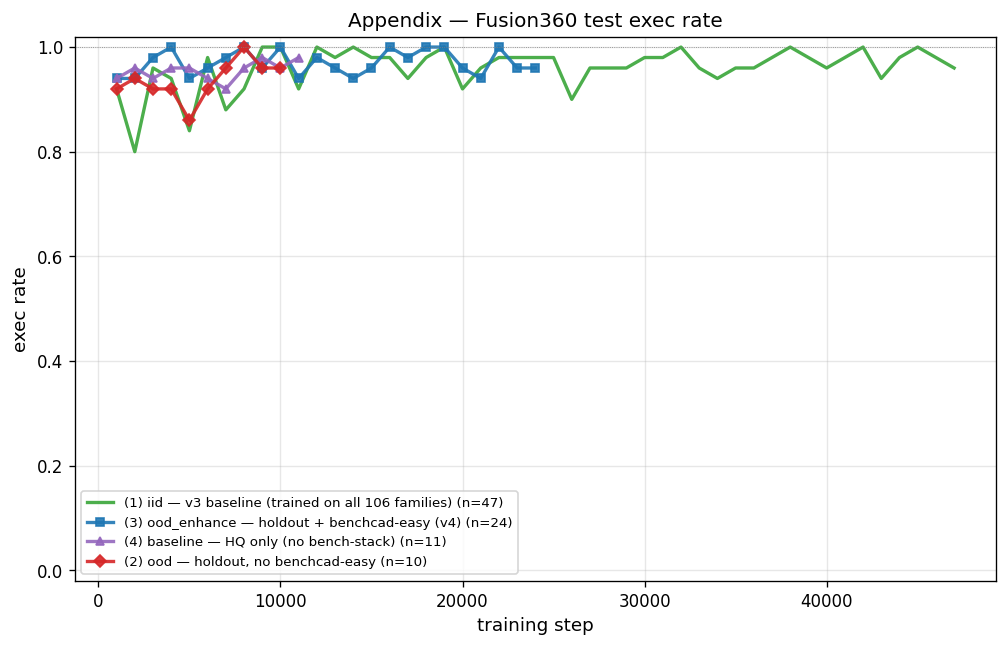
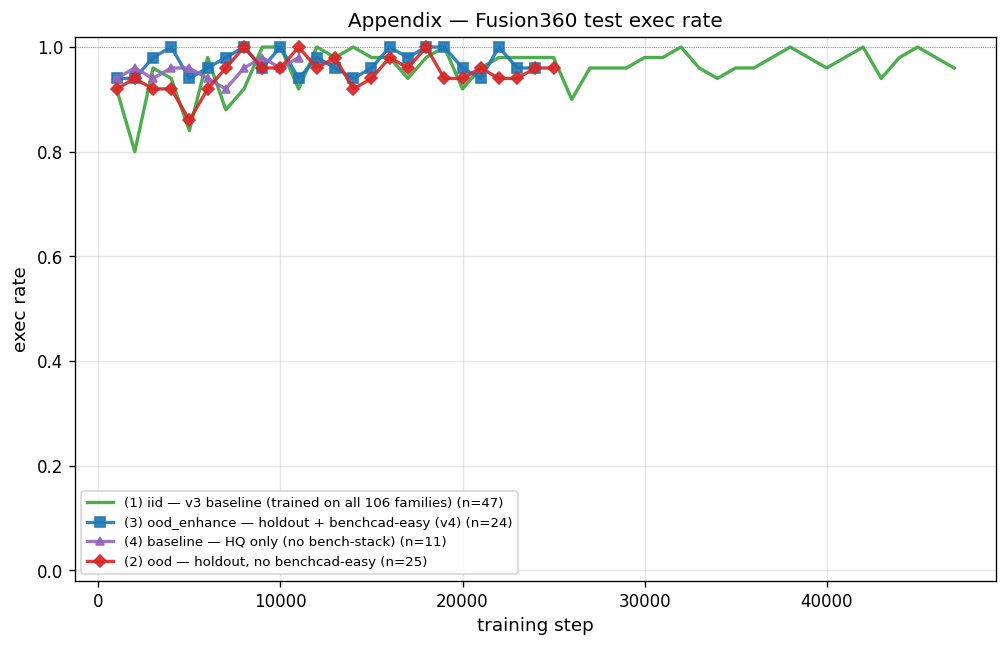
fix(figures): ood_enhance line now uses 50-stratified retro eval
Surfaces a stronger §7 finding by removing a sample-size bias.

Diagnosis:
  ood_enhance was trained pre-dating the online_eval IID/OOD split refactor.
  Its predictions/step-N.jsonl only contains ~9 random OOD samples per step
  (a subset of the legacy 50-row 'BenchCAD val' bucket). On the held-out
  families those 9 are unevenly distributed, biasing OOD ess_pass and IoU
  upward by +0.07 to +0.14 vs a stratified 50-OOD reference.

  baseline + ood (post-refactor) get a clean stratified 50-OOD per step,
  so the previous comparison was apples-to-oranges.

Fix:
  plot_main_appendix.py:
    * `per_step_from_retro(retro_dir, metric)` reads eval_outputs/v4_ood_retro
      step-NNNNNN/metadata.jsonl (50 stratified OOD per ckpt) — only 4 ckpts
      survived save_total_limit (18k/20k/22k/24k), so trajectory is sparse
      but consistent.
    * RUNS[ood_enhance] now carries `retro_ood_dir`. plot_one() uses retro
      data only for the BC val OOD bucket; IID + DC + Fu still come from
      per_step (those buckets weren't sample-biased the same way).
    * Imported common.essential_ops.find_ops as _canon_find_ops to avoid the
      name collision with the local op_taxonomy-based find_ops(code, patterns).

Surfaced finding (cf. earlier 9-OOD plot):
  At training step ≈24k, when sampled with the same 50-stratified OOD set:
    ood (holdout, no benchcad-easy):  ess_pass=0.36, IoU=0.31
    ood_enhance (holdout + easy):     ess_pass=0.24, IoU=0.34
[…]

Changed region(s): [[0.2771, 0.0618, 0.5541, 0.1546], [0.1847, 0.0927, 0.2155, 0.1236], [0.1539, 0.0618, 0.1847, 0.0927]]

diff --git a/scripts/analysis/plot_main_appendix.py b/scripts/analysis/plot_main_appendix.py
@@ -44,7 +44,10 @@ matplotlib.use('Agg')
 import matplotlib.pyplot as plt
 
 from common.holdout import HOLDOUT_FAMILIES as HOLDOUT
-from common.essential_ops import ESSENTIAL_BY_FAMILY as ESS_SPEC
+from common.essential_ops import (
+    ESSENTIAL_BY_FAMILY as ESS_SPEC,
+    find_ops as _canon_find_ops,
+)
 
 # ------------------------------------------------------------------
 # Run registry — add a new dict entry when a new chain run lands its
@@ -64,7 +67,12 @@ RUNS = [
         'key':   'ood_enhance',
         'label': '(3) ood_enhance — holdout + benchcad-easy (v4)',
         'dir':   '/ephemeral/checkpoints/sft-s50k-lr2e-4-b8a4-img-0430-0828/predictions',
-        'plot':  dict(color='C0', linewidth=2.0, marker='s', markersize=5, linestyle='-', alpha=0.9),
+        # Run pre-dates IID/OOD split refactor → online JSONL has ~9 random
+        # OOD per step (noisy, systematically high). Use the retro 50-OOD
+        # stratified eval (4 ckpts) for the BC val OOD bucket so the
+        # comparison with baseline/ood/iid is apples-to-apples.
+        'retro_ood_dir': '/home/ubuntu/cadrille/eval_outputs/v4_ood_retro',
+        'plot':  dict(color='C0', linewidth=2.0, marker='s', markersize=6, linestyle='-', alpha=0.9),
     },
     {
         'key':   'baseline',
@@ -185,6 +193,64 @@ def per_step(pred_dir, bucket_cfg, metric, uid2fam, patterns):
     return out
 
 
+def per_step_from_retro(retro_dir: str, metric: str, patterns) -> dict[int, float]:
+    """Per-step value from eval_v4_ood_retro outputs (50 stratified OOD per ckpt).
+
+    Used for ood_enhance — its online predictions JSONL only had ~9 random OOD
+    per step (run pre-dates the IID/OOD split refactor), but eval_v4_ood_retro
+    re-ran a fixed 50-OOD stratified sample at each saved checkpoint. Returns
+    {step: scalar} matching the shape of per_step() so it drops in seamlessly.
+
+    Only valid for the 'BC val OOD' bucket — DC/Fu/IID buckets use per_step().
+    """
+    p = Path(retro_dir)
+    if not p.is_dir():
+        return {}
+    out: dict[int, float] = {}
+    for step_dir in sorted(p.glob('step-*')):
+        if not step_dir.is_dir():
+            continue
+        try:
+            step = int(step_dir.name.split('-', 1)[1])
+        except ValueError:
+            continue
+        meta = step_dir / 'metadata.jsonl'
+        if not meta.exists():
+            continue
+        rows_meta = [json.loads(l) for l in meta.open() if l.strip()]
+        rows: list[dict] = []
+        for r in rows_meta:
+            py = step_dir / f'{r["stem"]}.py'
+            code = py.read_text() if py.exists() else ''
+            rows.append({
+                'uid':       r['stem'],
+                'family':    r.get('family'),
+                'pred_code': code,
+                'iou':       r.get('iou'),
+            })
+        # Family lookup uses the row's own 'family' field — bypasses uid2fam.
+        # We translate metric_value's calls by injecting family directly.
+        if metric == 'iou':
+            vals = [max(r.get('iou') or 0, 0) for r in rows]
+            out[step] = float(np.mean(vals)) if vals else 0.0
+        elif metric == 'exec':
+            vals = [(r.get('iou') is not None and r['iou'] >= 0) for r in rows]
+            out[step] = float(np.mean(vals)) if vals else 0.0
+        elif metric == 'ess_pass':
+            vals = []
+            for r in rows:
+                fam = r['family']
+                if fam is None:
+                    continue
+                ops = _canon_find_ops(r['pred_code'])  # canonical OP_PATTERNS
+                e = ess_pass(fam, ops)
+                if e is not None:
+                    vals.append(1 if e else 0)
+            if vals:
+                out[step] = float(np.mean(vals))
+    return out
+
+
 # ------------------------------------------------------------------
 # Plot helper
 # ------------------------------------------------------------------
@@ -196,7 +262,14 @@ def plot_one(bucket_name, metric, ylabel, title, outpath, ymax_hint=None,
     any_data = False
     max_step = 0
     for run in RUNS:
-        d = per_step(run['dir'], bucket_cfg, metric, uid2fam, patterns)
+        # For BC val OOD bucket, prefer a run's retro 50-stratified data when
+        # configured (apples-to-apples with the 50-OOD online_eval that
+        # baseline/ood/iid get). Fall back to per_step() everywhere else.
+        retro_dir = run.get('retro_ood_dir')
+        if bucket_name == 'BC val OOD' and retro_dir:
+            d = per_step_from_retro(retro_dir, metric, patterns)
+        else:
+            d = per_step(run['dir'], bucket_cfg, metric, uid2fam, patterns)
         if not d:
             continue
         any_data = True
